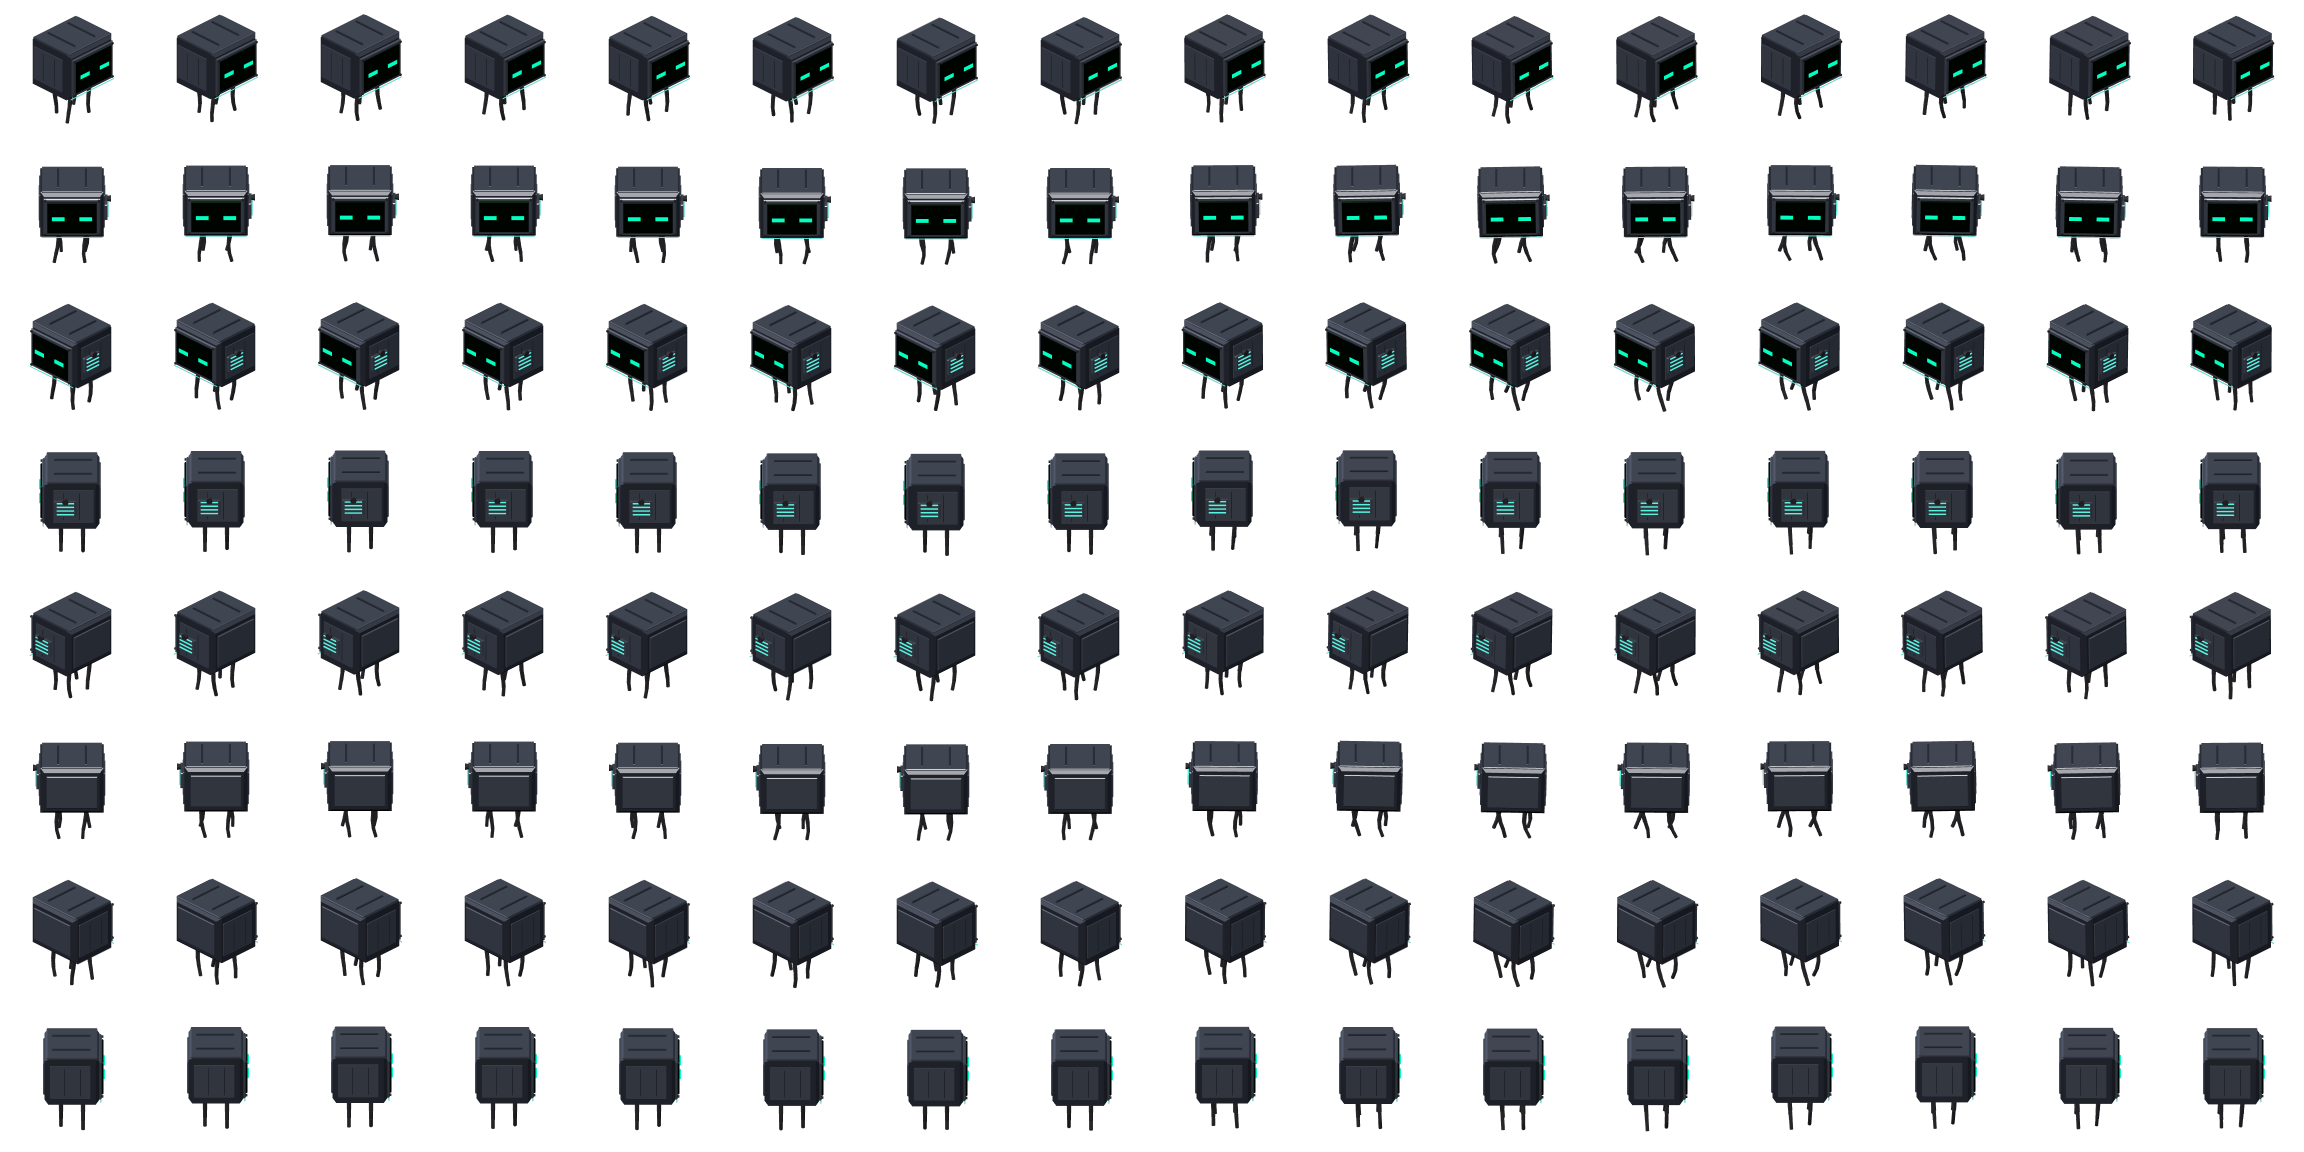
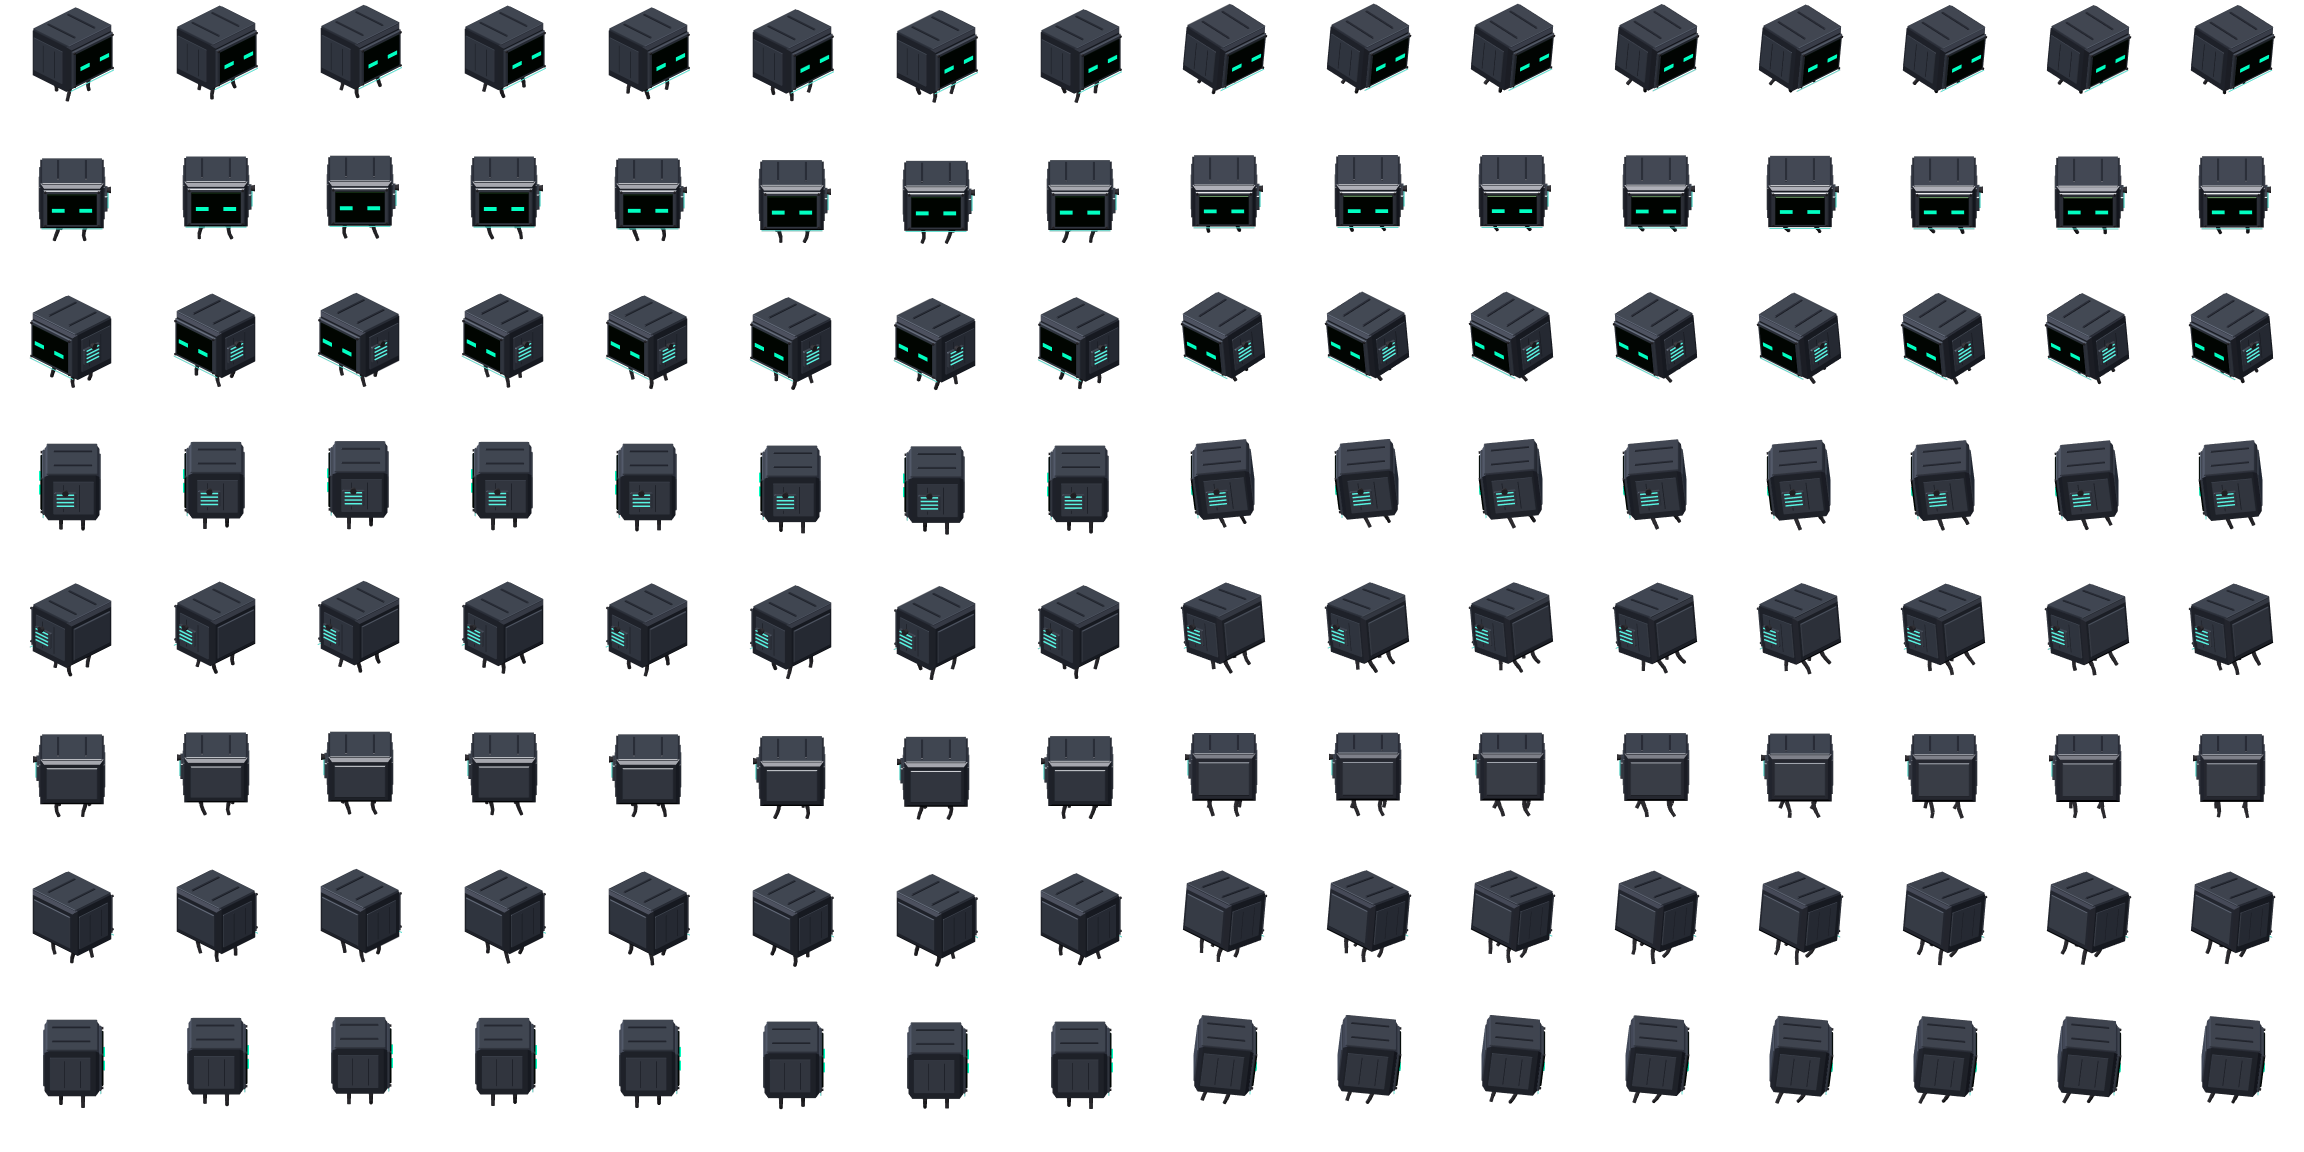
The player floats: the cube is lifted off the floor on short loose cables, hovers and leans into a move instead of stepping
Claude-Session: https://claude.ai/code/session_0115DZYYhipQqSk6LHvQcEfz

diff --git a/game.html b/game.html
@@ -1663,12 +1663,12 @@ function _showError(msg) {
 // Script files that failed to download. A missing file raises no error of its
 // own — only the "Can't find variable" from whatever needed it — so the load
 // failure is caught here, on its way down (capture phase).
-// THE BUILD. Every script URL below carries ?v=2026-10-18b, so a new deploy
+// THE BUILD. Every script URL below carries ?v=2026-10-18c, so a new deploy
 // fetches a matching set: REPORTED, an iPad ran the new js/indexart.js against
 // an old cached js/config.js ("Attempted to assign to readonly property").
 // Change this, the ?v= on every script tag and BUILD_VERSION in js/config.js
 // together (tests/boot.js checks they agree).
-window.__PAGE_BUILD = "2026-10-18b";
+window.__PAGE_BUILD = "2026-10-18c";
 window.__bootFailed = [];
 window.addEventListener("error", function (e) {
     var t = e && e.target;
@@ -1704,66 +1704,66 @@ if (!CanvasRenderingContext2D.prototype.roundRect) {
 </script>
 
 <!-- Game scripts — load order matters (globals first, logic last) -->
-<script src="js/config.js?v=2026-10-18b"></script>
-<script src="js/icons.js?v=2026-10-18b"></script>
-<script src="js/uikit.js?v=2026-10-18b"></script>
-<script src="js/rng.js?v=2026-10-18b"></script>
-<script src="js/traits.js?v=2026-10-18b"></script>
-<script src="js/elements.js?v=2026-10-18b"></script>
-<script src="js/combat.js?v=2026-10-18b"></script>
-<script src="js/species.js?v=2026-10-18b"></script>
-<script src="js/levels.js?v=2026-10-18b"></script>
-<script src="js/status.js?v=2026-10-18b"></script>
-<script src="js/predator_randomizer.js?v=2026-10-18b"></script>
-<script src="js/mass.js?v=2026-10-18b"></script>
-<script src="js/infest.js?v=2026-10-18b"></script>
-<script src="js/power.js?v=2026-10-18b"></script>
-<script src="js/save.js?v=2026-10-18b"></script>
-<script src="js/camp.js?v=2026-10-18b"></script>
-<script src="js/wavedata.js?v=2026-10-18b"></script>
-<script src="js/helpers.js?v=2026-10-18b"></script>
-<script src="js/predator.js?v=2026-10-18b"></script>
-<script src="js/abilities.js?v=2026-10-18b"></script>
-<script src="js/world.js?v=2026-10-18b"></script>
-<script src="js/commands.js?v=2026-10-18b"></script>
-<script src="js/npc.js?v=2026-10-18b"></script>
-<script src="js/codex.js?v=2026-10-18b"></script>
-<script src="js/draw.js?v=2026-10-18b"></script>
-<script src="js/beetle3d.js?v=2026-10-18b"></script>
-<script src="js/bugs3d.js?v=2026-10-18b"></script>
-<script src="js/ui.js?v=2026-10-18b"></script>
-<script src="js/waves.js?v=2026-10-18b"></script>
-<script src="js/drops.js?v=2026-10-18b"></script>
-<script src="js/clone.js?v=2026-10-18b"></script>
-<script src="js/clonework.js?v=2026-10-18b"></script>
-<script src="js/broods.js?v=2026-10-18b"></script>
-<script src="js/raids.js?v=2026-10-18b"></script>
-<script src="js/ultra.js?v=2026-10-18b"></script>
-<script src="js/formations.js?v=2026-10-18b"></script>
-<script src="js/breakout.js?v=2026-10-18b"></script>
-<script src="js/nightraids.js?v=2026-10-18b"></script>
-<script src="js/bonds.js?v=2026-10-18b"></script>
-<script src="js/autoplay.js?v=2026-10-18b"></script>
-<script src="js/indexart.js?v=2026-10-18b"></script>
-<script src="js/modules.js?v=2026-10-18b"></script>
-<script src="js/shieldcells.js?v=2026-10-18b"></script>
-<script src="js/evolution.js?v=2026-10-18b"></script>
-<script src="js/hdsprites.js?v=2026-10-18b"></script>
-<script src="js/buildmenu.js?v=2026-10-18b"></script>
-<script src="js/hudgems.js?v=2026-10-18b"></script>
-<script src="js/nethud.js?v=2026-10-18b"></script>
-<script src="js/commandcenter.js?v=2026-10-18b"></script>
-<script src="js/unitinfo.js?v=2026-10-18b"></script>
-<script src="js/zones.js?v=2026-10-18b"></script>
-<script src="js/kits.js?v=2026-10-18b"></script>
-<script src="js/kitui.js?v=2026-10-18b"></script>
-<script src="js/toolbox.js?v=2026-10-18b"></script>
-<script src="js/minicmd.js?v=2026-10-18b"></script>
-<script src="js/radialmenu.js?v=2026-10-18b"></script>
-<script src="js/input.js?v=2026-10-18b"></script>
-<script src="js/game.js?v=2026-10-18b"></script>
-<script src="js/tutorial.js?v=2026-10-18b"></script>
-<script src="js/dev.js?v=2026-10-18b"></script>
+<script src="js/config.js?v=2026-10-18c"></script>
+<script src="js/icons.js?v=2026-10-18c"></script>
+<script src="js/uikit.js?v=2026-10-18c"></script>
+<script src="js/rng.js?v=2026-10-18c"></script>
+<script src="js/traits.js?v=2026-10-18c"></script>
+<script src="js/elements.js?v=2026-10-18c"></script>
+<script src="js/combat.js?v=2026-10-18c"></script>
+<script src="js/species.js?v=2026-10-18c"></script>
+<script src="js/levels.js?v=2026-10-18c"></script>
+<script src="js/status.js?v=2026-10-18c"></script>
+<script src="js/predator_randomizer.js?v=2026-10-18c"></script>
+<script src="js/mass.js?v=2026-10-18c"></script>
+<script src="js/infest.js?v=2026-10-18c"></script>
+<script src="js/power.js?v=2026-10-18c"></script>
+<script src="js/save.js?v=2026-10-18c"></script>
+<script src="js/camp.js?v=2026-10-18c"></script>
+<script src="js/wavedata.js?v=2026-10-18c"></script>
+<script src="js/helpers.js?v=2026-10-18c"></script>
+<script src="js/predator.js?v=2026-10-18c"></script>
+<script src="js/abilities.js?v=2026-10-18c"></script>
+<script src="js/world.js?v=2026-10-18c"></script>
+<script src="js/commands.js?v=2026-10-18c"></script>
+<script src="js/npc.js?v=2026-10-18c"></script>
+<script src="js/codex.js?v=2026-10-18c"></script>
+<script src="js/draw.js?v=2026-10-18c"></script>
+<script src="js/beetle3d.js?v=2026-10-18c"></script>
+<script src="js/bugs3d.js?v=2026-10-18c"></script>
+<script src="js/ui.js?v=2026-10-18c"></script>
+<script src="js/waves.js?v=2026-10-18c"></script>
+<script src="js/drops.js?v=2026-10-18c"></script>
+<script src="js/clone.js?v=2026-10-18c"></script>
+<script src="js/clonework.js?v=2026-10-18c"></script>
+<script src="js/broods.js?v=2026-10-18c"></script>
+<script src="js/raids.js?v=2026-10-18c"></script>
+<script src="js/ultra.js?v=2026-10-18c"></script>
+<script src="js/formations.js?v=2026-10-18c"></script>
+<script src="js/breakout.js?v=2026-10-18c"></script>
+<script src="js/nightraids.js?v=2026-10-18c"></script>
+<script src="js/bonds.js?v=2026-10-18c"></script>
+<script src="js/autoplay.js?v=2026-10-18c"></script>
+<script src="js/indexart.js?v=2026-10-18c"></script>
+<script src="js/modules.js?v=2026-10-18c"></script>
+<script src="js/shieldcells.js?v=2026-10-18c"></script>
+<script src="js/evolution.js?v=2026-10-18c"></script>
+<script src="js/hdsprites.js?v=2026-10-18c"></script>
+<script src="js/buildmenu.js?v=2026-10-18c"></script>
+<script src="js/hudgems.js?v=2026-10-18c"></script>
+<script src="js/nethud.js?v=2026-10-18c"></script>
+<script src="js/commandcenter.js?v=2026-10-18c"></script>
+<script src="js/unitinfo.js?v=2026-10-18c"></script>
+<script src="js/zones.js?v=2026-10-18c"></script>
+<script src="js/kits.js?v=2026-10-18c"></script>
+<script src="js/kitui.js?v=2026-10-18c"></script>
+<script src="js/toolbox.js?v=2026-10-18c"></script>
+<script src="js/minicmd.js?v=2026-10-18c"></script>
+<script src="js/radialmenu.js?v=2026-10-18c"></script>
+<script src="js/input.js?v=2026-10-18c"></script>
+<script src="js/game.js?v=2026-10-18c"></script>
+<script src="js/tutorial.js?v=2026-10-18c"></script>
+<script src="js/dev.js?v=2026-10-18c"></script>
 <script>
 // ── BOOT CHECK ────────────────────────────────────────────
 // Every file above must have arrived and run before init.js starts the game.
@@ -1816,7 +1816,7 @@ if (!CanvasRenderingContext2D.prototype.roundRect) {
     document.body.appendChild(d);
 })();
 </script>
-<script src="js/init.js?v=2026-10-18b"></script>
+<script src="js/init.js?v=2026-10-18c"></script>
 
 </body>
 </html>

diff --git a/design/evolutions/forms29.js b/design/evolutions/forms29.js
@@ -108,7 +108,7 @@ f2(813, "THE PLAYER · the mech: the cube as a torso on two legs, with stub arms
 // The cube is large (about 1.5 units) because the player is the biggest thing on the lane: the 2D one is 52 px wide.
 function _playerHD(angry) {
   const g = G(), b = G(); g.add(b);
-  const W = 1.5, H = 1.22, D = 1.3, cy = 1.52;
+  const W = 1.5, H = 1.22, D = 1.3, cy = 1.75, HANG = 0.5;   // it FLOATS: the cube is well off the floor and the cables hang short, never touching it
   const eyeMat = new T.MeshBasicMaterial({ color: angry ? 0xff2222 : 0x00ff88, toneMapped: false });
   const body = cbox(W, H, D, 0.09, _pBlack); body.position.y = cy; b.add(body);
   // the top plate (the lighter face the 2D one shows), slightly proud, with two raised ribs
@@ -137,12 +137,13 @@ function _playerHD(angry) {
     const x = (t % 2 ? 1 : -1) * W * 0.22, z = (t < 2 ? -1 : 1) * D * 0.2, ring = cyl(0.075, 0.075, 0.05, _pPanel, 8); ring.position.set(x, cy - H / 2 - 0.01, z); b.add(ring);
     const segs = []; for (let i = 0; i < 4; i++) { const s = _limb(b, 0.055 - i * 0.004, _pPeg, 6); segs.push(s); } cables.push({ x, z, segs, t });
   }
-  const sway = (t, walk, ph) => { for (const c of cables) { let p = V(c.x, cy - H / 2, c.z); const n = c.segs.length, step = (cy - H / 2 - 0.04) / n;
-      for (let i = 0; i < n; i++) { const k = (i + 1) / n, a = Math.sin(t * 1.6 + c.t * 1.3 + i * 0.7) * 0.09 * k + (walk ? Math.sin(ph + c.t + i * 0.5) * 0.09 * k : 0), q = V(c.x + a, p.y - step, c.z + (walk ? Math.sin(ph * 0.5 + c.t) * 0.06 * k : 0)); c.segs[i].set(p, q); p = q; } } };
+  const sway = (t, walk, ph) => { for (const c of cables) { let p = V(c.x, cy - H / 2, c.z); const n = c.segs.length, step = HANG / n;
+      for (let i = 0; i < n; i++) { const k = (i + 1) / n, a = Math.sin(t * 1.6 + c.t * 1.3 + i * 0.7) * 0.09 * k + (walk ? Math.sin(ph + c.t + i * 0.5) * 0.05 * k : 0), q = V(c.x + a, p.y - step * (walk ? 0.93 : 1), c.z + (walk ? -0.16 * k + Math.sin(ph + c.t) * 0.04 * k : 0)); c.segs[i].set(p, q); p = q; } } };
   sway(0, false, 0);
   return { g, core: cy, update(t, act) { const walk = _isWalk(act), ph = _walkPh(act);
-    b.position.y = walk ? Math.sin(ph * 2) * 0.03 + 0.02 : bob(t, 0, 0.045);
-    b.rotation.z = walk ? Math.sin(ph) * 0.02 : 0;
+    // a hover, not a step: it rises and sinks slowly (a little quicker when it moves) and LEANS into the move, with no bounce at the feet
+    b.position.y = bob(t, 0, 0.07) + (walk ? Math.sin(ph) * 0.015 : 0);
+    const lean = walk ? 0.11 : 0.0; b.rotation.x = lean; b.position.z = -Math.sin(lean) * cy;
     sway(t, walk, ph); } };
 }
 f2(814, "THE PLAYER · high definition: the same black cube with its raked screen and green dash eyes, modelled: chamfered armour, bezel, bolts, a grille on the vent, four cables swaying to the floor.", () => _playerHD(false));

diff --git a/js/hdsprites.js b/js/hdsprites.js
@@ -48,14 +48,15 @@ function hdPlayerState() {
 function hdVentOffset(row, s) {
     const phi = row * Math.PI / 4, lx = 0.8, lz = 0.16, wx = lx * Math.cos(phi) + lz * Math.sin(phi), wz = -lx * Math.sin(phi) + lz * Math.cos(phi);
     const k = HD_PX_PER_UNIT * Math.SQRT1_2 * s;
-    return { x: (wx - wz) * k, y: (wx + wz) * 0.5 * k - 1.72 * HD_PX_PER_UNIT * 0.866 * s };
+    return { x: (wx - wz) * k, y: (wx + wz) * 0.5 * k - 1.95 * HD_PX_PER_UNIT * 0.866 * s };
 }
 // Draws the player; false if the sheet is not there yet (the caller draws the flat one).
 function drawHdPlayer(p) {
     const img = _hdImg(player.angryTimer > 0 ? "player_angry" : "player"); if (!img) return false;
     const st = hdPlayerState(), s = HD_PLAYER_SCALE;
     ctx.save();
-    ctx.fillStyle = "rgba(0,0,0,0.3)"; ctx.beginPath(); ctx.ellipse(p.x, p.y + 1, 34 * s, 14 * s, 0, 0, Math.PI * 2); ctx.fill();
+    // the shadow on the floor, well under it: that gap is what makes it float
+    ctx.fillStyle = "rgba(0,0,0,0.26)"; ctx.beginPath(); ctx.ellipse(p.x, p.y + 1, 26 * s, 10 * s, 0, 0, Math.PI * 2); ctx.fill();
     ctx.drawImage(img, hdCol(st.walking, st.f0) * HD_CELL, st.row * HD_CELL, HD_CELL, HD_CELL, p.x - HD_ANCHOR[0] * s, p.y + 2 - HD_ANCHOR[1] * s, HD_CELL * s, HD_CELL * s);
     ctx.restore();
     if (frame % cfg.exhaustFrequency === 0) { const vo = hdVentOffset(st.row, s); smoke.push({ x: p.x + vo.x, y: p.y + vo.y, vx: 0.2 + Math.random() * 0.4, vy: -0.15 - Math.random() * 0.2, life: 1, size: 4 + Math.random() * 6 }); }

diff --git a/js/config.js b/js/config.js
@@ -4,7 +4,7 @@
 
 // The build this file belongs to — the same as window.__PAGE_BUILD and the
 // ?v= on every script tag in game.html (the boot check compares them).
-const BUILD_VERSION = "2026-10-18b";
+const BUILD_VERSION = "2026-10-18c";
 
 // ── GLOBAL ERROR DISPLAY ──────────────────────────────────
 // Lives in game.html (_showError), before any file loads. This file used to
